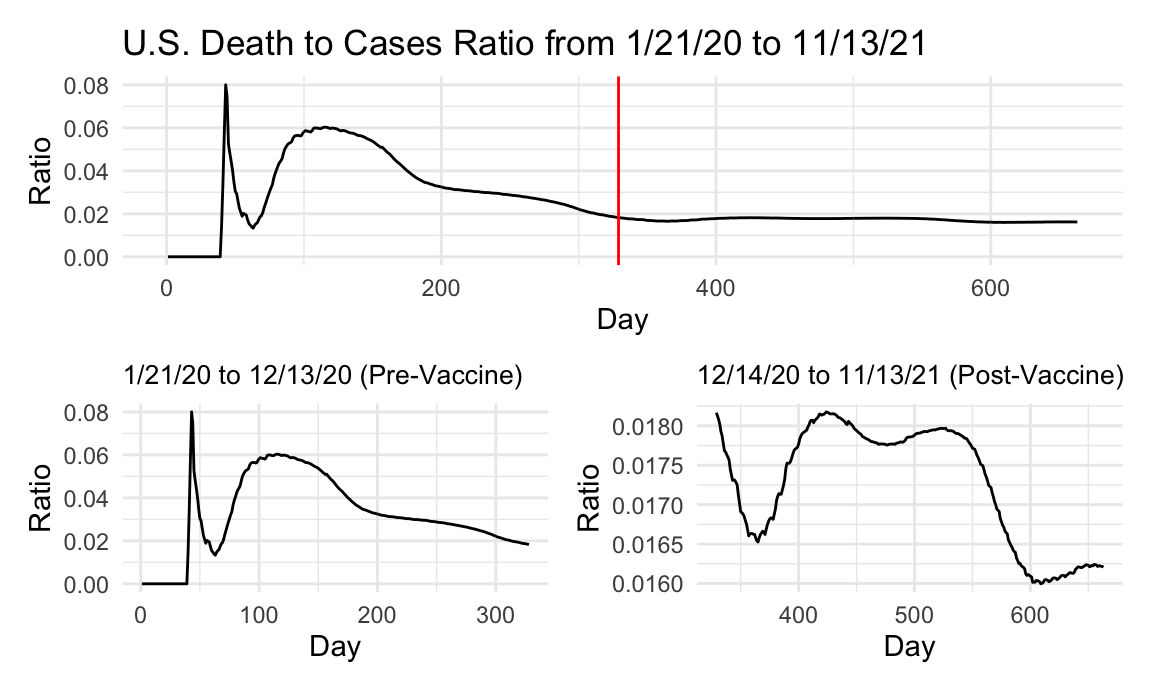
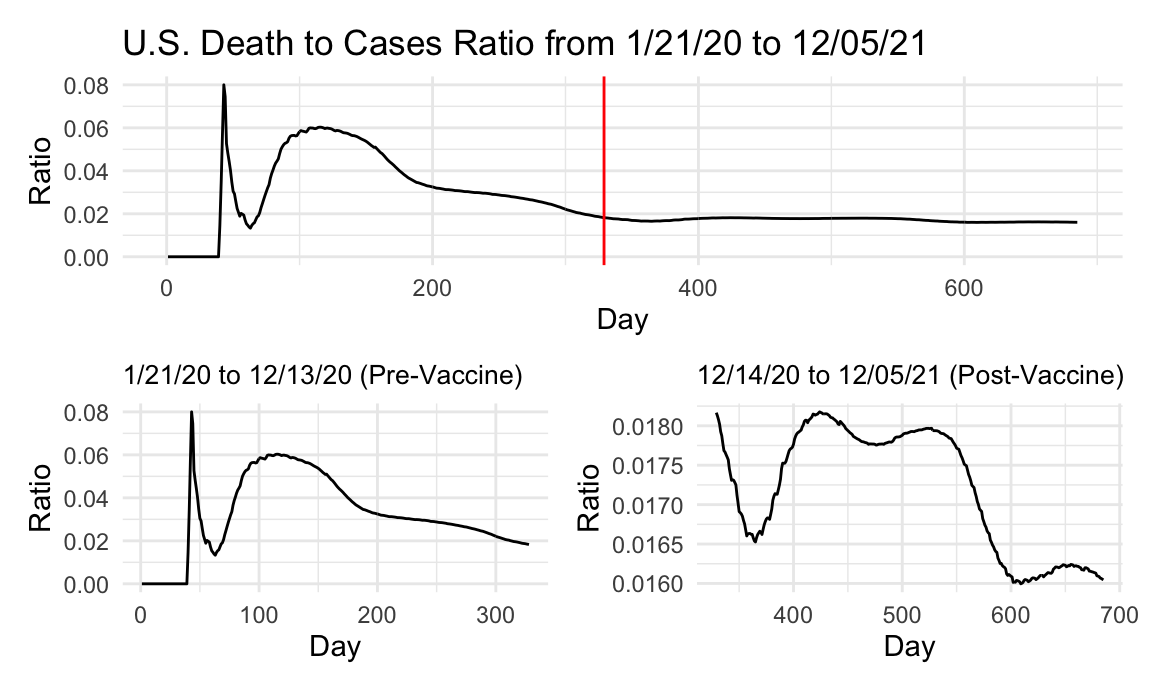
updated us data/figures to more recent dates (11/13 now 12/05)

diff --git a/covid_pre_post_vacc.html b/covid_pre_post_vacc.html
@@ -268,7 +268,7 @@ $(document).ready(function () {
 <div id="data" class="section level2">
 <h2>Data</h2>
 <pre class="r"><code>us_covid = read_csv(&quot;./data/us.csv&quot;) %&gt;% 
-  mutate(day = 1:663,
+  mutate(day = 1:685,
          dc_ratio = deaths/cases)</code></pre>
 </div>
 <div id="deathcase-ratio" class="section level2">
@@ -309,25 +309,25 @@ $(document).ready(function () {
 <tbody>
 <tr class="odd">
 <td align="left">intercept</td>
-<td align="right">-7696235.09</td>
+<td align="right">-7794675.04</td>
 <td align="right">-2661121.00</td>
-<td align="right">-2747373.53</td>
-<td align="right">-70962.322</td>
+<td align="right">-3491838.72</td>
+<td align="right">-70361.639</td>
 <td align="right">-32873.6457</td>
-<td align="right">38076.8</td>
+<td align="right">33469.235</td>
 </tr>
 <tr class="even">
 <td align="left">slope</td>
-<td align="right">80278.44</td>
+<td align="right">80715.65</td>
 <td align="right">42073.19</td>
-<td align="right">72767.71</td>
-<td align="right">1269.376</td>
+<td align="right">74445.31</td>
+<td align="right">1266.709</td>
 <td align="right">952.0364</td>
-<td align="right">1077.4</td>
+<td align="right">1087.785</td>
 </tr>
 </tbody>
 </table>
-<p>U.S. Post-vax/Pre-vax Case Ratio: 1.7295507 <span class="math inline">\(\\\)</span> U.S. State Post-vax/Pre-vax Death Ratio: 1.1316795</p>
+<p>U.S. Post-vax/Pre-vax Case Ratio: 1.7694241 <span class="math inline">\(\\\)</span> U.S. State Post-vax/Pre-vax Death Ratio: 1.1425874</p>
 </div>
 
 
